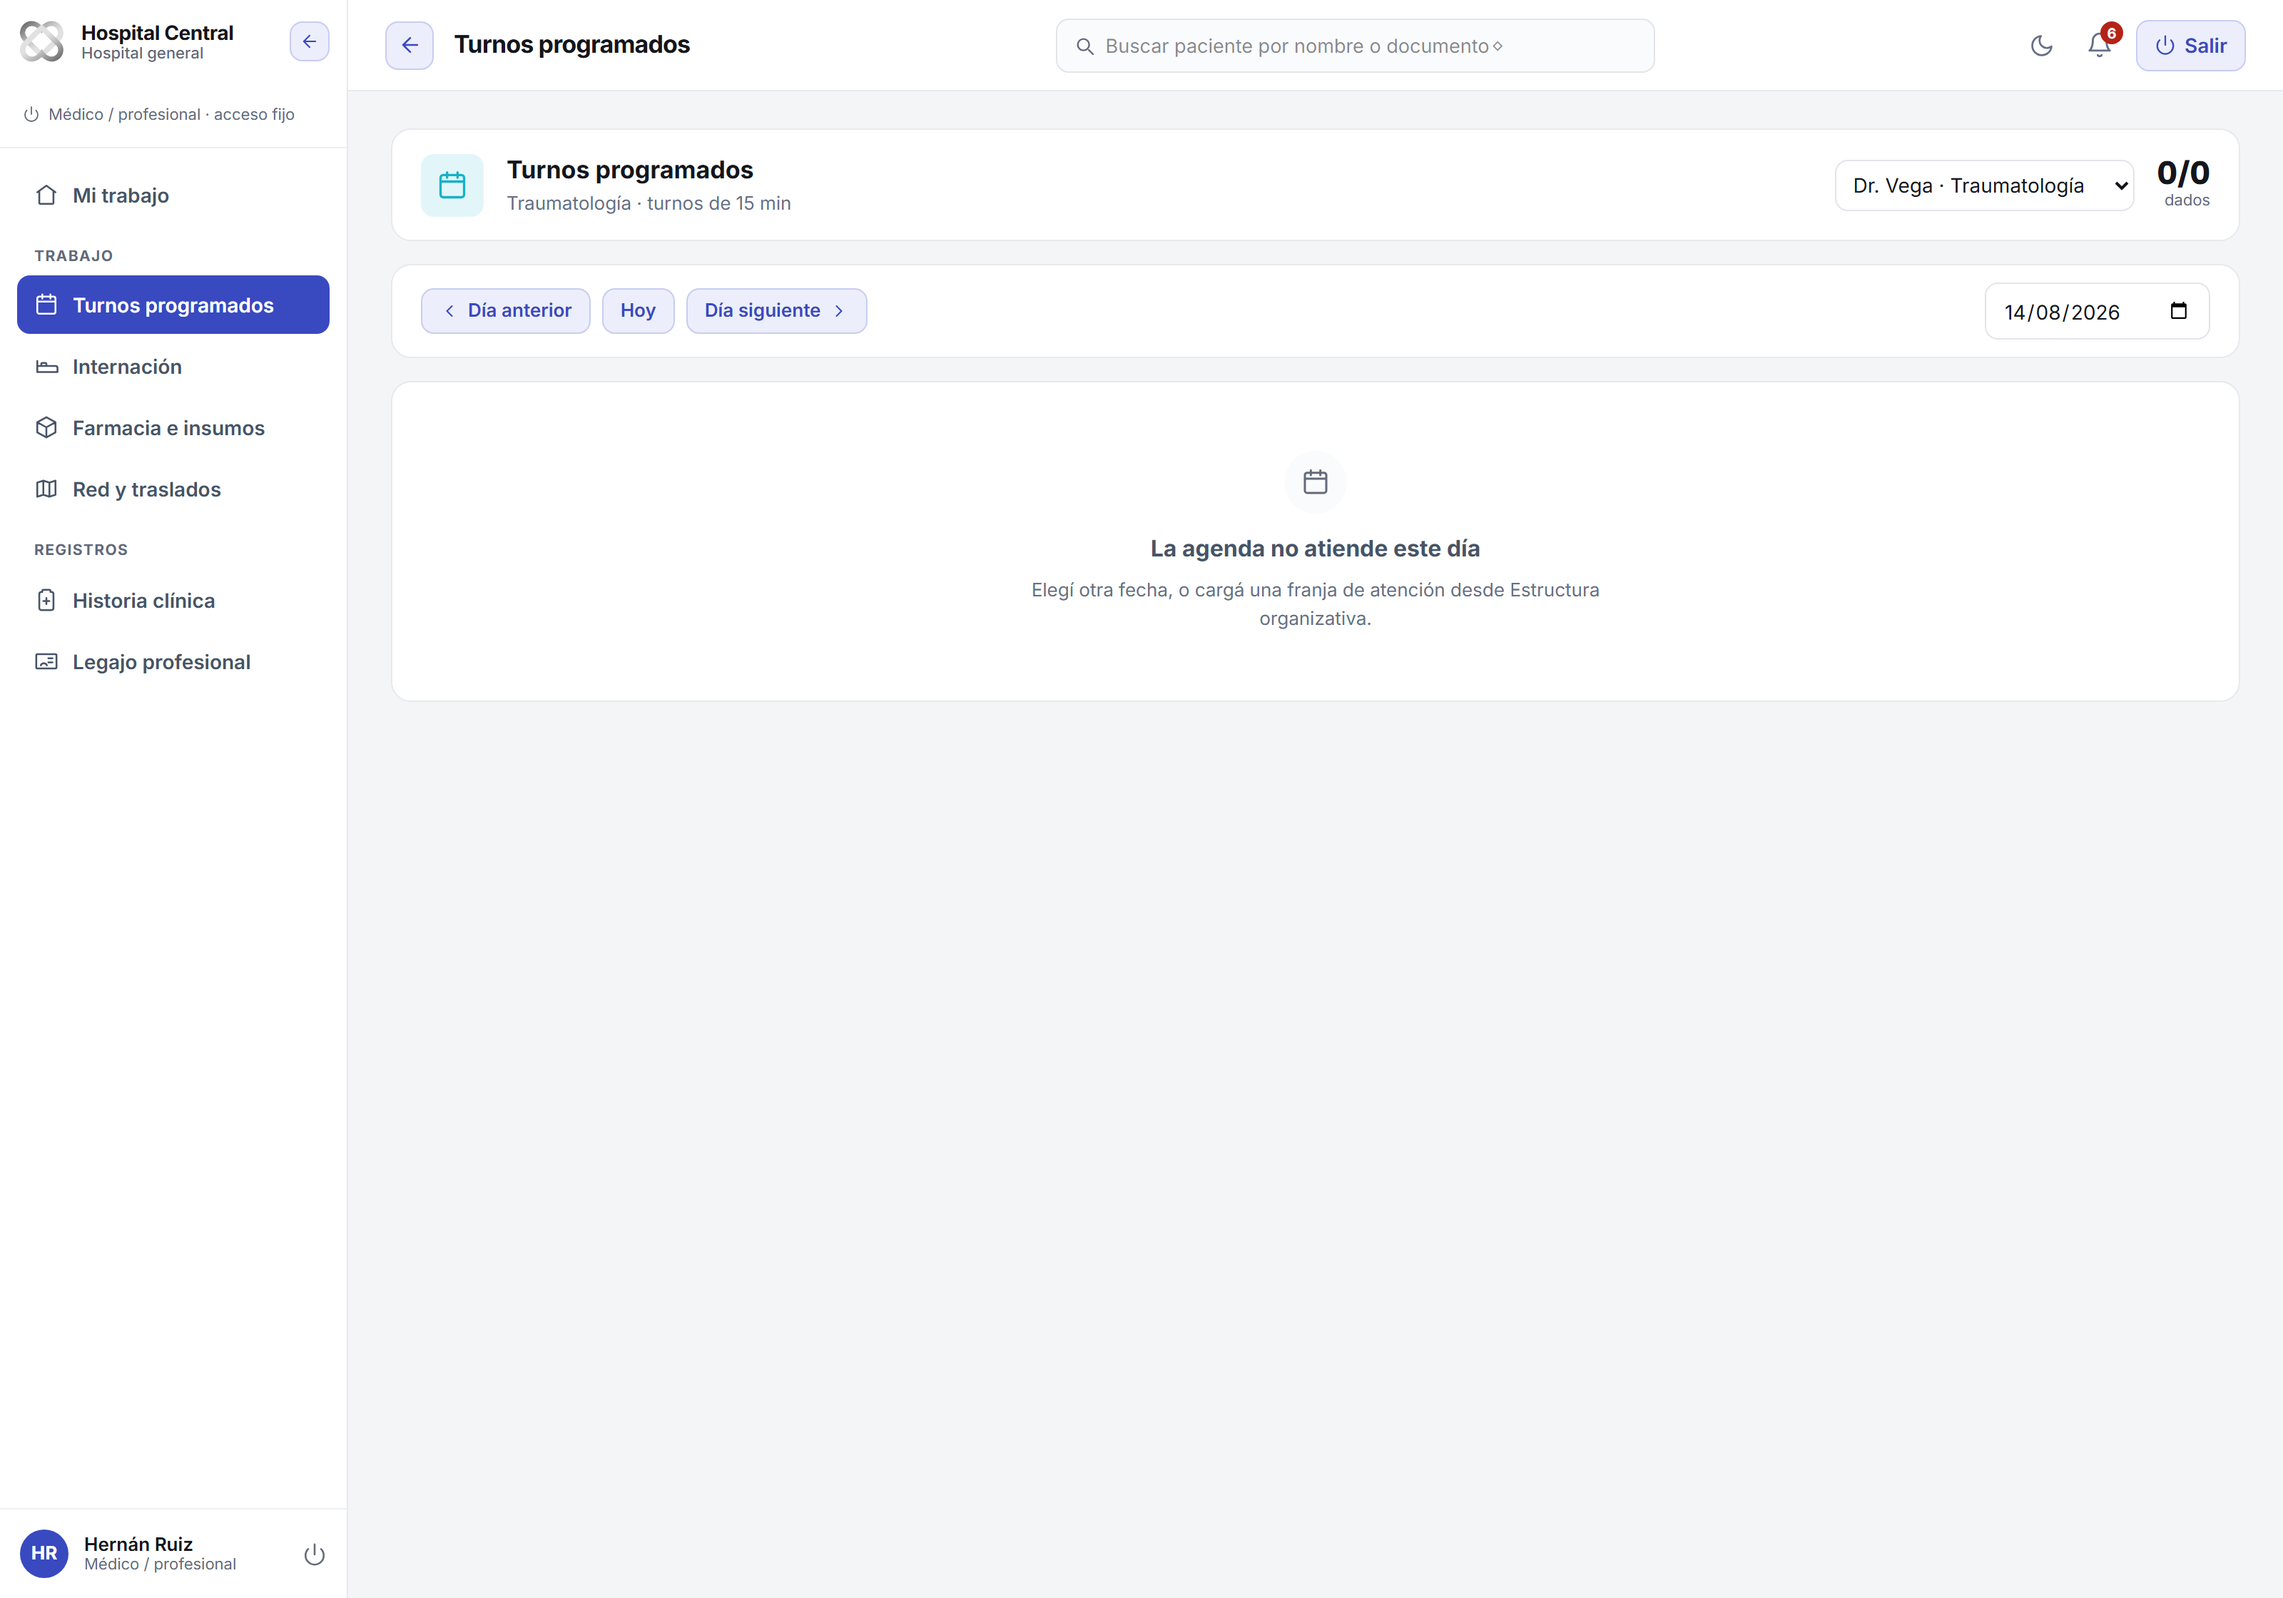
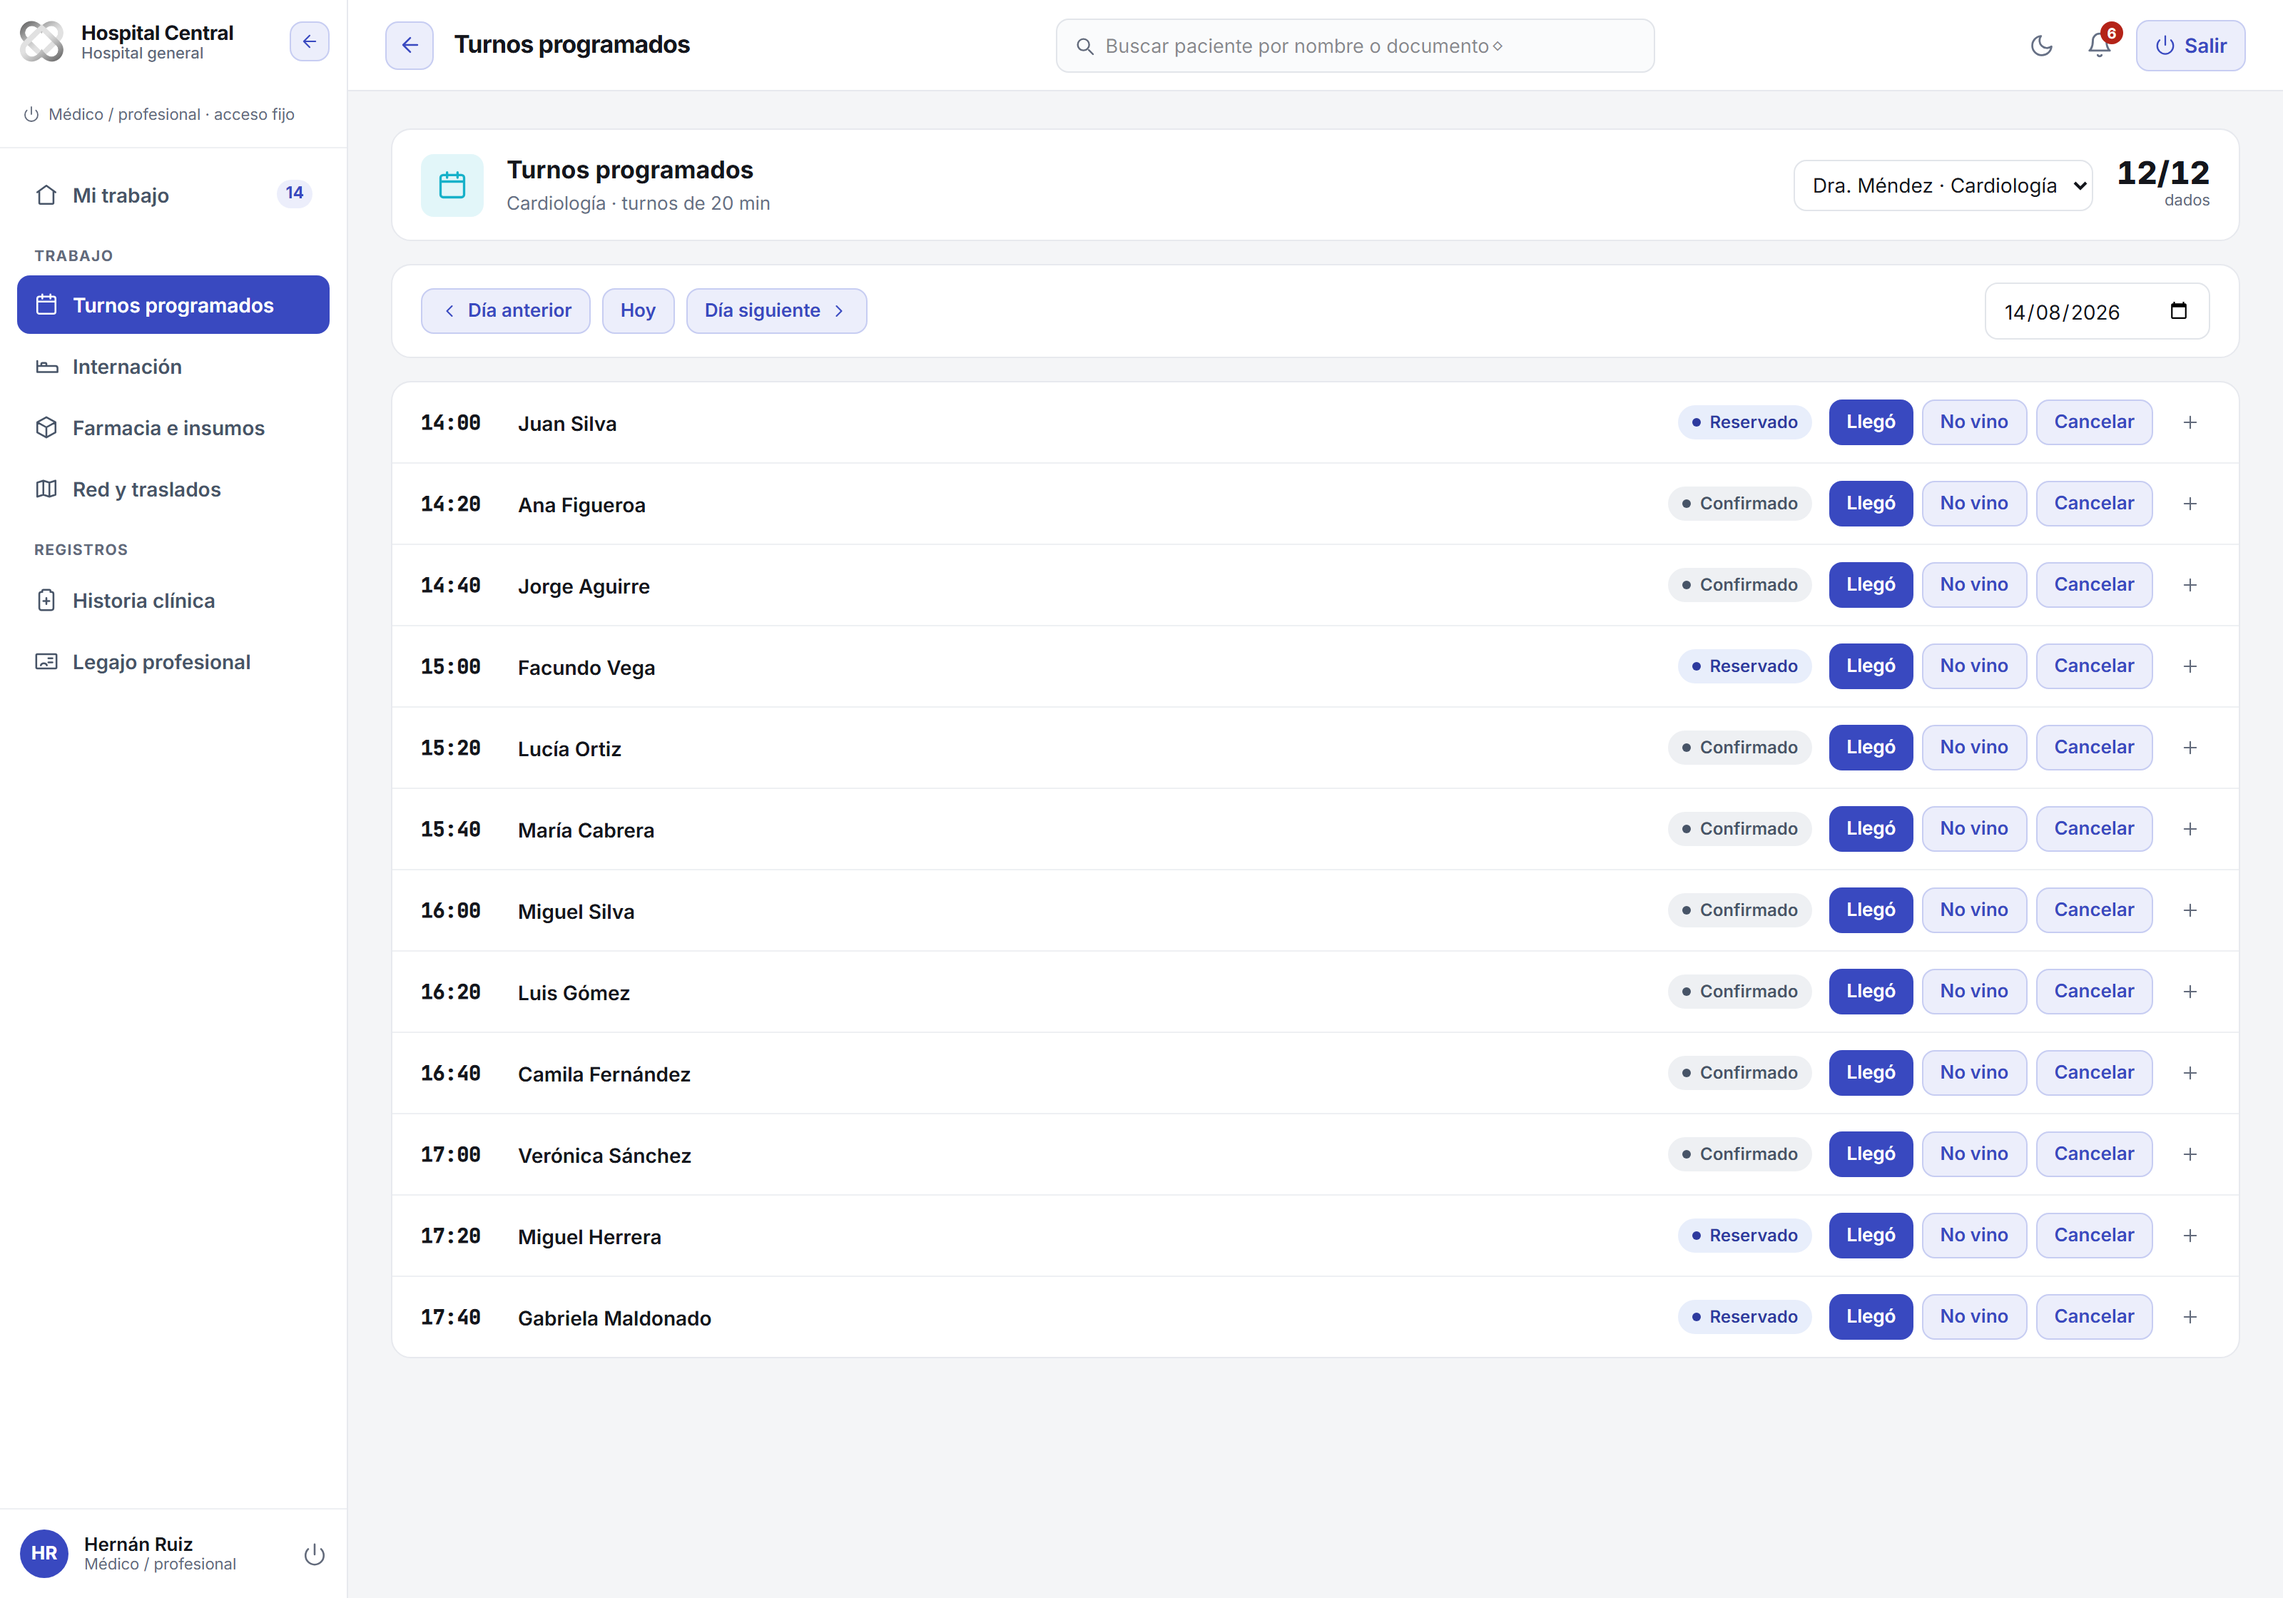
ASD

diff --git a/frontend/e2e/capturas.spec.js b/frontend/e2e/capturas.spec.js
@@ -94,10 +94,28 @@ async function foto(page, nombre) {
   await page.screenshot({ path: `${CARPETA}/${nombre}`, fullPage: false });
 }
 
+/**
+ * Espera a que el menú del rol esté resuelto.
+ *
+ * Las capacidades del rol llegan en una llamada aparte de la sesión, y hasta que
+ * contesta el Shell no tiene grupos de menú, el rótulo del rol dice «Usuario» y
+ * /inicio cae en el panel de institución en vez de «Mi trabajo». No alcanza con
+ * esperar a que no quede nada cargando: ese estado intermedio no tiene esqueletos
+ * ni spinner, así que pasa los dos filtros y la foto sale de OTRA pantalla —fue lo
+ * que pasó con /inicio del médico, capturado con el menú vacío.
+ *
+ * Se espera un grupo del menú, que es señal positiva: todos los roles que se
+ * capturan tienen al menos uno, y el estado sin capacidades no tiene ninguno.
+ */
+async function esperarMenu(page) {
+  await expect(page.locator("aside").first().getByText(/^(SISTEMA|TRABAJO|REGISTROS)$/).first()).toBeVisible();
+}
+
 /** Pantalla de lista o detalle dentro de la sesión: navegar, esperar, sacar. */
 async function pantalla(page, ruta, nombre) {
   await page.goto(ruta);
   await fijarTema(page, "claro"); // recarga y espera a que no quede nada cargando
+  await esperarMenu(page); // ...y que el rol haya resuelto su menú
   await foto(page, nombre);
 }
 
@@ -189,6 +207,7 @@ test.describe("admin", () => {
   test("08 detalle de formulario", async ({ page }) => {
     await page.goto("/formularios");
     await esperarPantalla(page);
+    await esperarMenu(page);
     await primeraFila(page, /\/formularios\/\d+/);
     await foto(page, "08-formulario-detalle.png");
   });
@@ -200,6 +219,7 @@ test.describe("admin", () => {
   test("10 y 11 diseñador de flujos", async ({ page }) => {
     await page.goto("/flujos");
     await esperarPantalla(page);
+    await esperarMenu(page);
     await page.locator("tbody tr").first().click();
     await page.waitForURL(/\/flujos\/\d+/);
     // El lienzo está listo cuando hay nodos dibujados (igual que editor.spec.js).
@@ -249,6 +269,7 @@ test.describe("médico", () => {
      */
     await page.goto("/inicio");
     await esperarPantalla(page);
+    await esperarMenu(page); // sin esto, /inicio puede ser todavía el panel de institución
     const areas = page.getByRole("heading", { name: "Mis áreas" });
     if (await areas.isVisible().catch(() => false)) {
       await page.getByText("Entrar →").first().click();
@@ -268,12 +289,39 @@ test.describe("médico", () => {
   test("19 detalle del caso", async ({ page }) => {
     await page.goto("/casos");
     await esperarPantalla(page);
+    await esperarMenu(page);
     await primeraFila(page, /\/casos\/\d+/);
     await foto(page, "19-caso-detalle.png");
   });
 
   test("20 agenda", async ({ page }) => {
-    await pantalla(page, "/agenda", "20-agenda.png");
+    /*
+     * Elegir una agenda que atienda el día que se muestra.
+     *
+     * La pantalla abre con la primera agenda del listado y cada profesional
+     * atiende ciertos días: la de Traumatología no atiende viernes, así que la
+     * captura salía con «La agenda no atiende este día». No es un error —el
+     * estado vacío es correcto— pero como lámina de «Turnos programados» no
+     * muestra nada. Se prueban las agendas hasta dar con una que tenga turnos.
+     */
+    await page.goto("/agenda");
+    await fijarTema(page, "claro");
+    await esperarMenu(page);
+
+    const agendas = page.locator("select").first();
+    const vacia = page.getByText("La agenda no atiende este día");
+    const opciones = await agendas.locator("option").evaluateAll((os) => os.map((o) => o.value));
+    for (const valor of opciones) {
+      await agendas.selectOption(valor);
+      await esperarPantalla(page);
+      if (!(await vacia.isVisible().catch(() => false))) break;
+    }
+    blando(
+      await vacia.isVisible().catch(() => false),
+      "20-agenda.png: ninguna de las agendas atiende hoy, la lámina sale vacía",
+    ).toBe(false);
+
+    await foto(page, "20-agenda.png");
   });
 
   test("21 internación", async ({ page }) => {
@@ -295,6 +343,7 @@ test.describe("médico", () => {
   test("26 detalle de la historia", async ({ page }) => {
     await page.goto("/historia");
     await esperarPantalla(page);
+    await esperarMenu(page);
     await primeraFila(page, /\/historia\/\d+/);
     await foto(page, "26-historia-detalle.png");
   });
